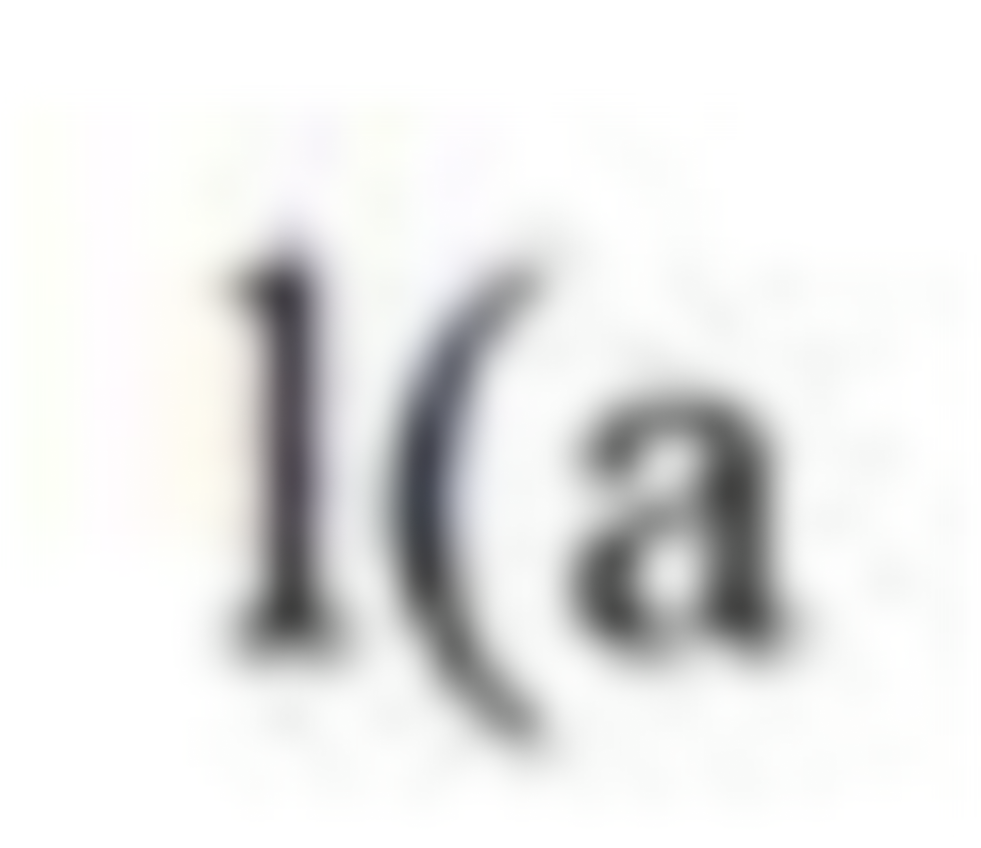
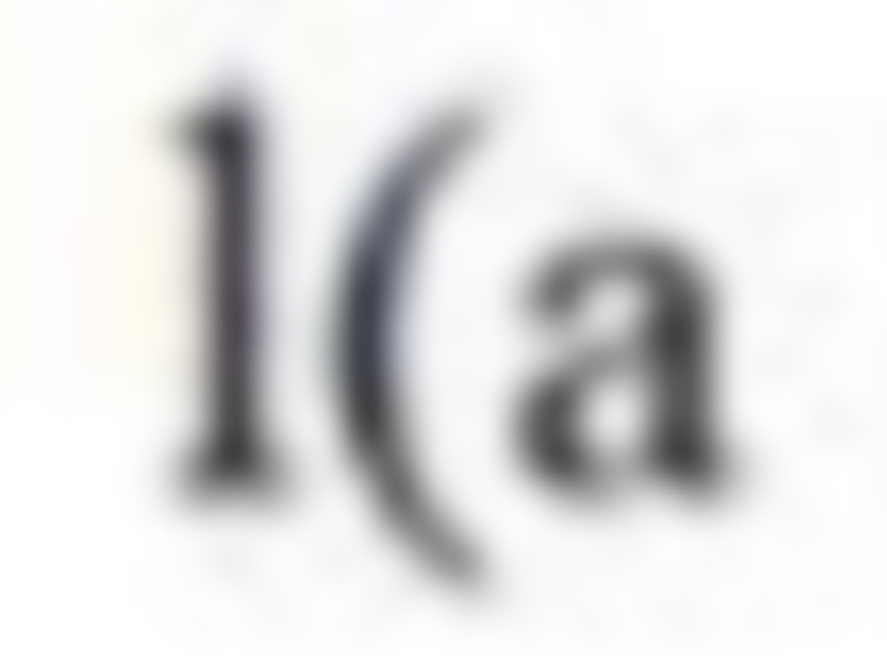
got rid of silly background and cleaned up css

Changed region(s): [[0.1522, 0.0915, 0.5784, 0.9146], [0.5479, 0.3354, 0.8523, 0.7927]]

diff --git a/styles.css b/styles.css
@@ -1,47 +1,28 @@
-@import url("https://fonts.googleapis.com/css2?family=Syne+Mono&display=swap");
+@import url("https://fonts.googleapis.com/css2?family=Syne&display=swap");
+@import url("https://fonts.googleapis.com/css2?family=EB+Garamond:ital,wght@0,400;0,700;1,400;1,700&display=swap");
 
 :root {
   --glass: rgba(255, 255, 255, 0.199);
+
   --blue: blue;
 }
 body {
   box-sizing: border-box;
   margin: 3% 15%;
   padding: 0;
-  font-family: Syne Mono;
-  align-items: center;
-  background-image: url("./photo/1-a-blur.png");
-  background-repeat: no-repeat;
-  background-position: center;
-  background-size: auto;
+  font-family: Syne;
   text-transform: lowercase;
+  background-size: auto;
 }
 
 footer {
-  background-color: var(--glass);
-  margin-top: 10%;
-  /* border: 1px solid blue; */
   text-align: right;
 }
 
 nav {
-  background-color: var(--glass);
-  /* border: 1px solid blue; */
   margin-top: 3%;
 }
 
-/* p {
-  font-family: "lack";
-} */
-
-h1,
-h2,
-h3,
-h4,
-h5 {
-  /* font-family: "lack"; */
-  font-weight: bold;
-}
 .bio p,
 nav p,
 footer p {
@@ -56,26 +37,16 @@ a:hover {
   color: var(--blue);
 }
 
-.topstuff {
-  display: grid;
-}
-
 .writing-links {
-  /* border: 1px solid blue; */
   margin: initial;
   margin-bottom: 20%;
   padding: 0 0.2rem;
 }
-.bio,
-.writing-links p {
-  background-color: var(--glass);
-}
+
 .caps {
   text-transform: none;
 }
 .rect {
-  /* border: 1px solid blue; */
-  background-color: var(--glass);
   padding: 0.2rem;
   margin-top: 3%;
 }
@@ -85,14 +56,13 @@ a:hover {
   margin: 0;
 }
 
+img {
+  width: 100%;
+}
+
 @media (max-width: 650px) {
   body {
     font-size: 1rem;
     margin: 5% 2%;
-    background-image: url("./photo/mobile.png");
-
-    background-repeat: repeat-y;
-    background-position: center;
-    background-size: auto;
   }
 }

diff --git a/max.html b/max.html
@@ -27,6 +27,7 @@
       randomized sequential microsampling that has single-handedly revolutionized the way that I perform and think about
       music, pushing me past what I thought was ever possible as a solo performer — and there is still more to discover!
     </p>
+    <p>video // patch // cycling 74 interview</p>
   </div>
   <div class="rect">
     <h1>Alone-a // July 2018 to present</h1>
@@ -37,7 +38,7 @@
   </div>
   <div class="rect">
     <h1>Slo Dance // June 2020 to present</h1>
-    <p>a combination of the 1(a and alone-a rectes utilized for a my collaboration with <a
+    <p>a combination of the 1(a and alone-a patches utilized for a my collaboration with <a
         href="https://www.slodancecompany.org/">Slo Dance</a></p>
   </div>
   <div class="rect">
@@ -67,7 +68,7 @@
       approaches to randomizing parameters and effects.</p>
   </div>
   <div class="rect">
-    <h1>[WHAT”S THE POINT!] // yet to be utilized :(</h1>
+    <h1><span class="caps">[WHAT”S THE POINT!]</span> // yet to be utilized :(</h1>
     <p>This work was being developed as part of Red Eye Theater’s 2020 Isolated Acts program in
       collaboration with Alana Horton before being cancelled due to covid. The application allows us to “perform” a
       quadraphonic sound system,

diff --git a/websites.html b/websites.html
@@ -10,40 +10,32 @@
   <style>
     .cuter {
       display: flex;
-
-      justify-content: space-between;
-      align-items: center;
       flex-direction: row-reverse;
-      align-content: stretch;
-      height: 100%;
-
-
-    }
-
-    .cutergif img {
-      height: 20rem;
-      border: 1px solid blue;
-
     }
 
     .cuter div {
-      padding-right: .5rem;
+      padding-left: .5rem;
+    }
+
+    .cutergif img {
+      height: 15rem;
+      width: auto;
+      border: 1px solid blue;
+
     }
 
     @media (max-width: 650px) {
       .cuter {
         flex-direction: column;
+        align-items: center;
       }
 
-      /* .cuter img {
-        grid
-      } */
     }
   </style>
 </head>
 
 <body>
-  <h1>websites that i have made so far:</h1>
+  <h1>some of the websites that i have made so far:</h1>
   <div class="rect">
     <h2><a class="caps" href="https://anomalous-u.com">ANOMALOUS_U</a></h2>
     <p><span class="caps">ANOMALOUS_U</span> is a participatory experience exploring self-help and self-understanding.

diff --git a/index.html b/index.html
@@ -10,7 +10,7 @@
 </head>
 
 <body>
-  <!-- <img src="./photo/1-a-blur.png" alt="1(a image but blurry"> -->
+  <img src="./photo/1-a-blur.png" alt="1(a image but blurry">
   <div class="bio">
     <p>I (patrick marschke) am a Minneapolis-based drummer, improvisor, writer, and sound technologist
       trying to make all
